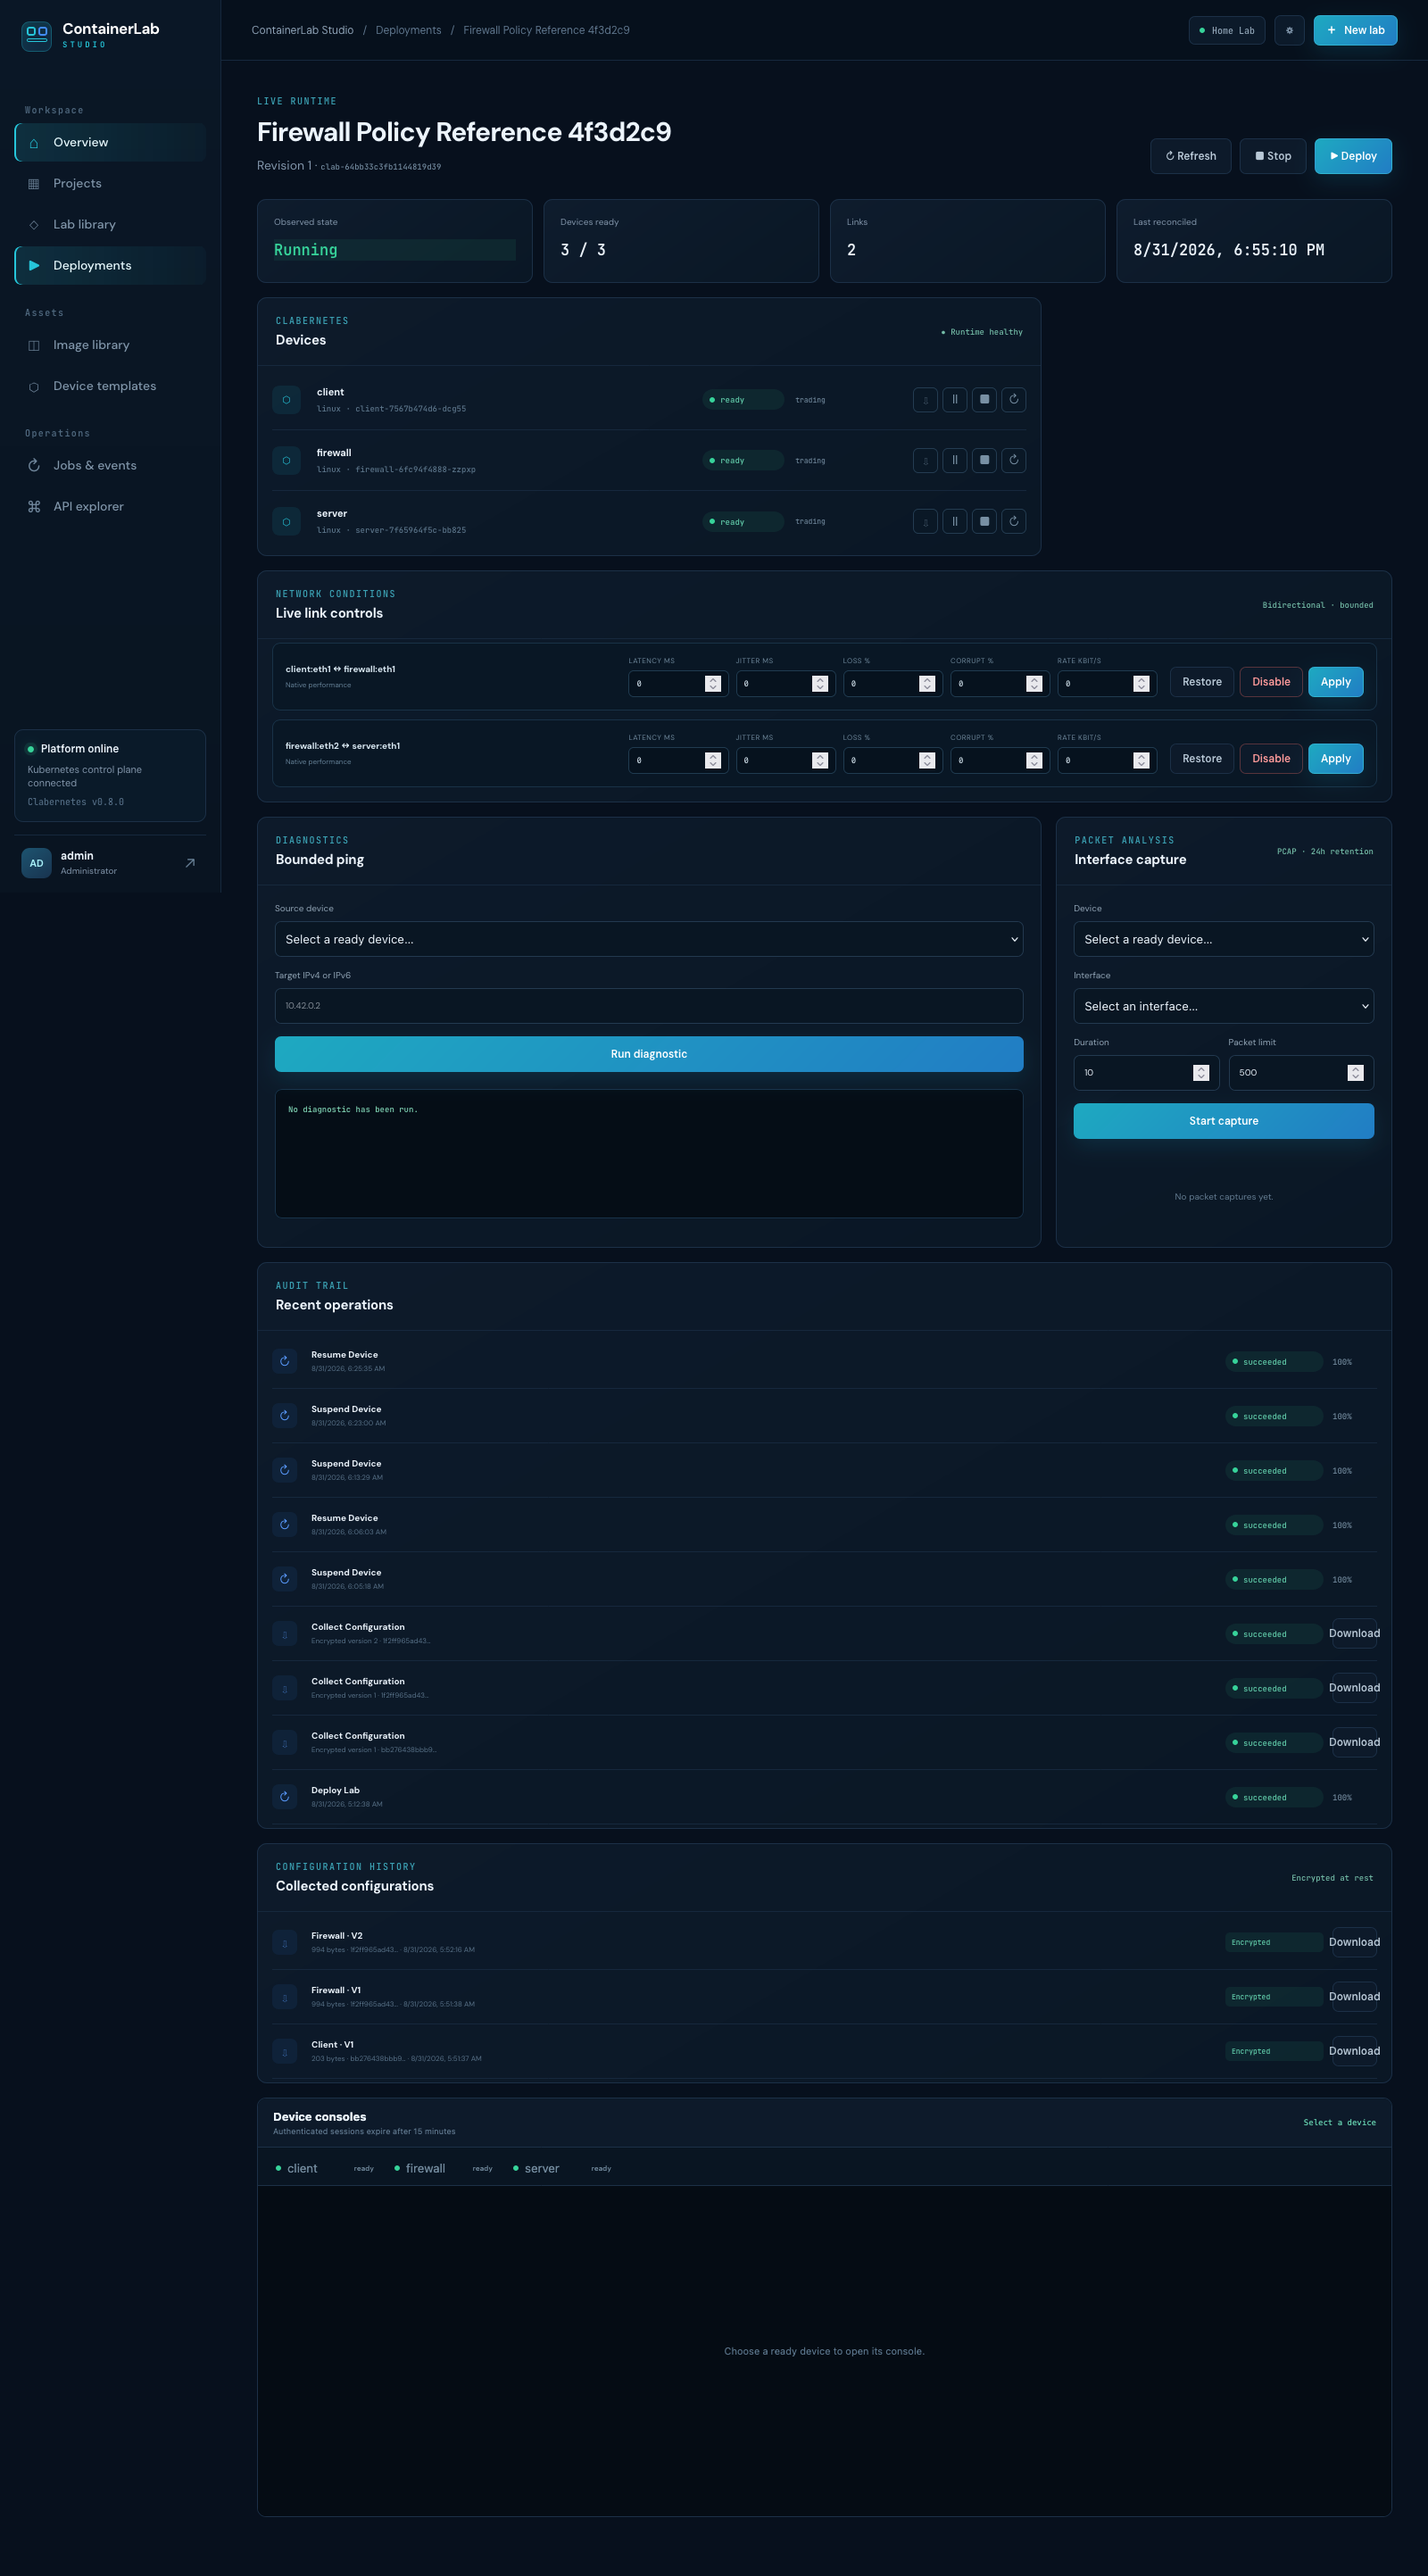
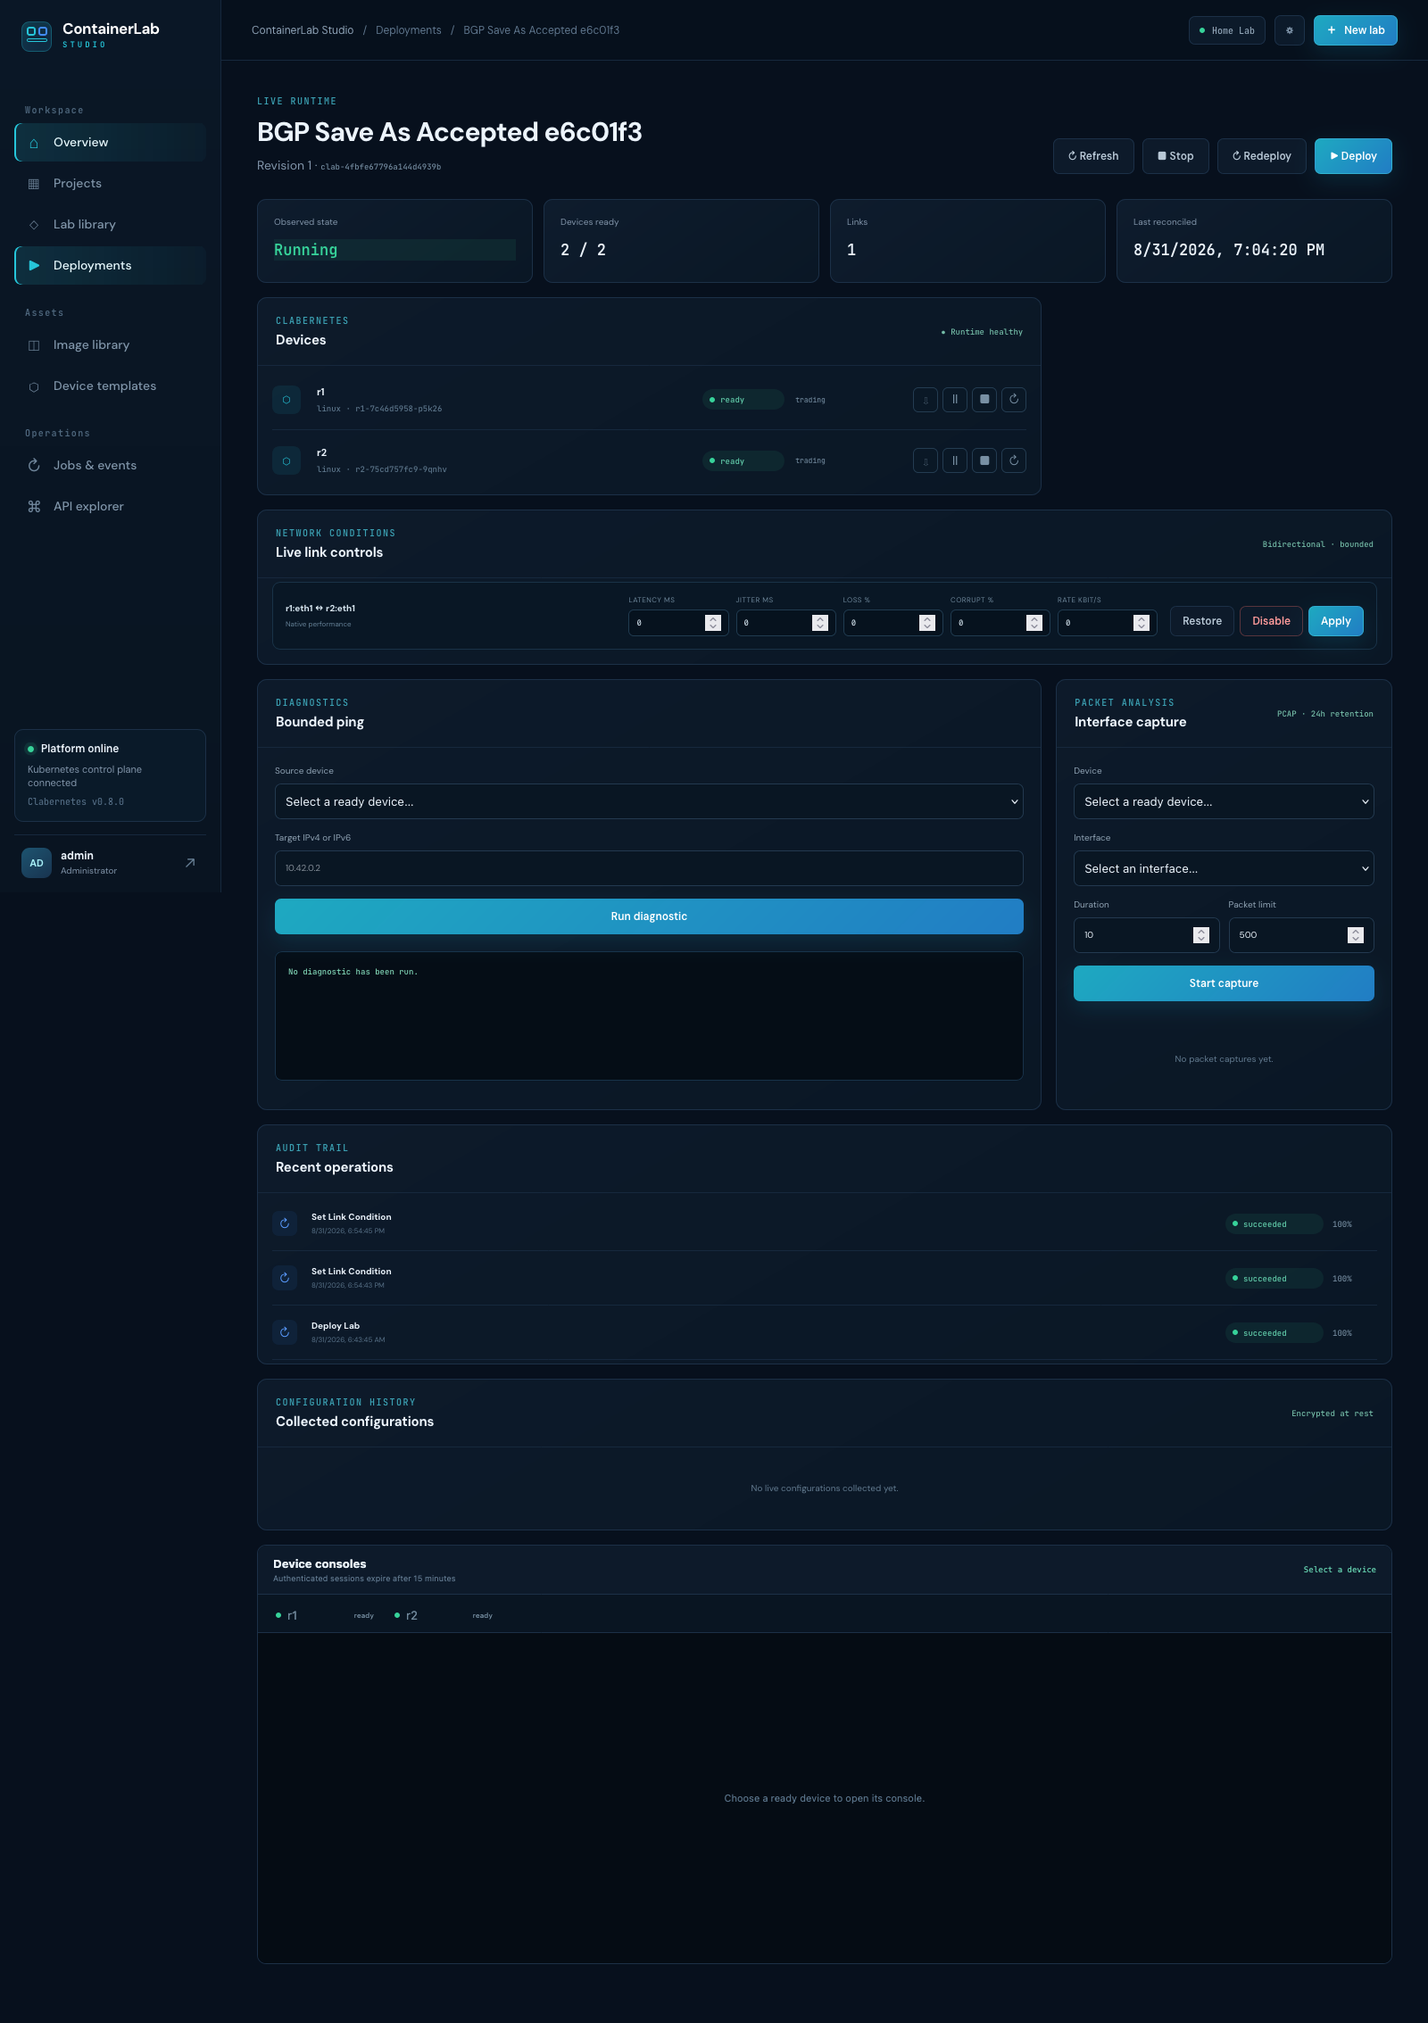
docs: add Firefox redeploy training capture

diff --git a/IMPLEMENTATION_STATUS.md b/IMPLEMENTATION_STATUS.md
@@ -29,7 +29,7 @@
 - Topology revision-history workspace with immutable/deployed/draft status, counts and checksums, optimistic draft-conflict protection, idempotent restore into a new editable revision, encrypted configuration re-versioning, and audited provenance.
 - Native self-service account and security page with profile/timezone management, normalized email, verified current-password changes, strengthened password validation, CSRF protection, session continuity, legacy-route safety, and content-free audit events.
 - Explicit GUI-only operator contract: topology Backup/Restore is labeled as a product-native bundle workflow, while Containerlab/Kubernetes YAML remains internal to the validated runtime adapter.
-- A 24-screen, read-only training capture catalog covering projects, labs, visual topology design, images, deployment/device lifecycle, link controls, diagnostics, packet capture, console, configuration history, templates, jobs, security, and API discovery.
+- A 25-screen, read-only Firefox training capture catalog covering projects, labs, visual topology design, images, deployment/device lifecycle, safe redeploy preview, link controls, diagnostics, packet capture, console, configuration history, templates, jobs, security, and API discovery.
 
 ## Acceptance results
 
@@ -69,8 +69,9 @@
 | 32 | Revision history and restore | PASS | The deployed BGP revision remained immutable and its original runtime stayed healthy while restore created revision 2 as a new editable draft with two encrypted FRR configs; replay returned the same result, a stale draft token returned typed 409, and deploying the restored revision established eBGP and passed 3/3 routed pings both ways. |
 | 33 | Self-service account security | PASS | A temporary production account rendered the native page, rejected an incorrect current password, normalized and saved profile/timezone data, changed to a policy-compliant password, authenticated with the replacement credential, retained its active session, and emitted content-free profile/password audit events; the temporary user was then removed. |
 | 34 | Packet-corruption impairment | PASS | The authenticated product API applied 0.5% corruption to a live two-router link, `tc netem` reported `corrupt 0.5%` on both launcher endpoints, and a second idempotent operation restored the persisted/runtime condition to 0%. |
+| 35 | Safe whole-lab redeploy | PASS | Firefox verified the read-only impact preview; an authenticated audited redeploy recreated a stopped two-device/one-link Alpine runtime from pinned revision 1, reached 2/2 ready and `running`, and a final stop restored its original stopped state. |
 
-Automated tests: **95 passed**. Django checks and migration drift checks: **pass**. React TypeScript/Vite production build: **pass**. Training capture runner syntax check: **pass**. Helm lint/render: **pass**. Native runtime ping: **3 transmitted, 3 received, 0% loss, 0.445 ms average RTT**. Bidirectional 120 ms link condition: **240.563 ms average RTT**. Disabled link: **100% loss**. Restored qdiscs: **native `noqueue` on both endpoints**.
+Automated tests: **97 passed**. Django checks and migration drift checks: **pass**. React TypeScript/Vite production build: **pass**. Firefox training capture: **25 live screens passed**. Helm lint/render: **pass**. Native runtime ping: **3 transmitted, 3 received, 0% loss, 0.445 ms average RTT**. Bidirectional 120 ms link condition: **240.563 ms average RTT**. Disabled link: **100% loss**. Restored qdiscs: **native `noqueue` on both endpoints**.
 
 ## Known limitations
 

diff --git a/training/GALLERY.md b/training/GALLERY.md
@@ -145,3 +145,9 @@ The user updates profile and timezone settings or changes their password using c
 ![API explorer](24-api-explorer.png)
 
 The operator or automation engineer reviews the authenticated API behind the GUI. The API enforces the same authorization, validation, quota, and idempotency rules as the visual workflows.
+
+## 25 — Safe redeploy preview
+
+![Redeploy preview](25-redeploy-preview.png)
+
+Before replacing device compute, the operator reviews the pinned revision, device and link counts, current state, preserved records, session impact, and any conflicting active job. Redeploy is submitted only after explicit confirmation.
